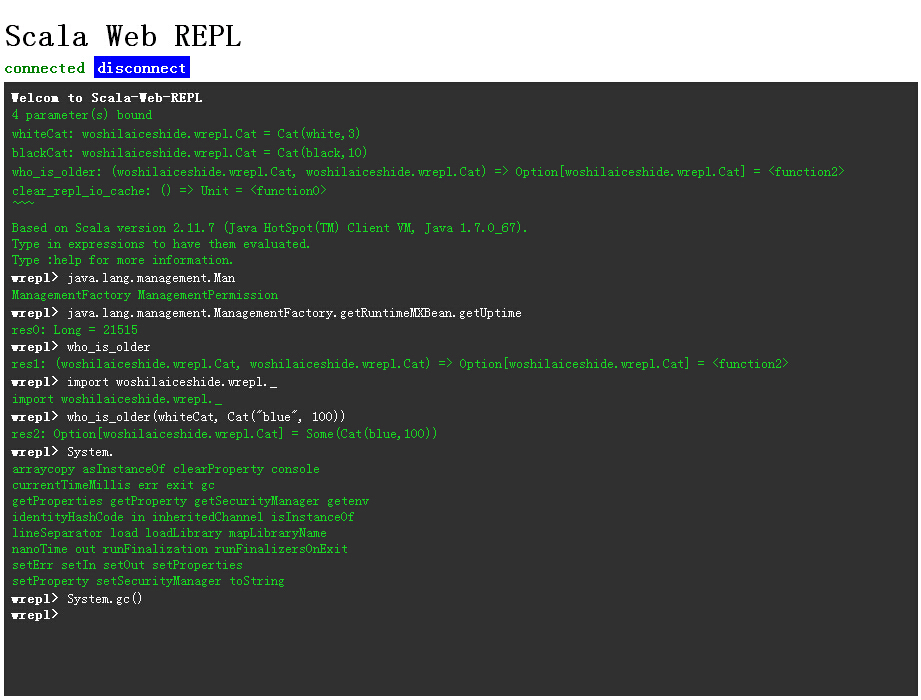
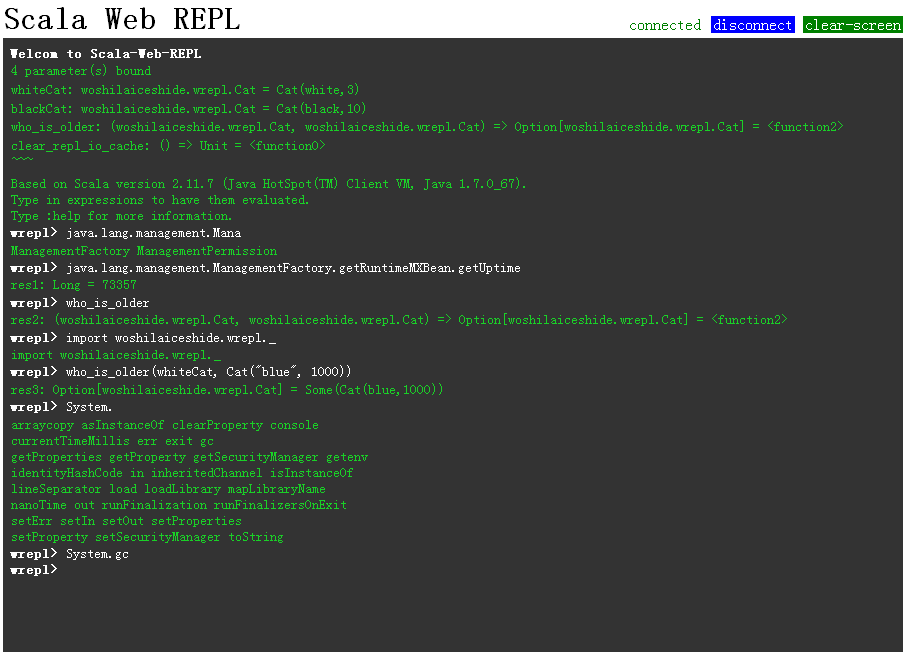
refine web-ui

diff --git a/src/main/resources/asset/wrepl.html b/src/main/resources/asset/wrepl.html
@@ -7,7 +7,7 @@
 <script type="text/javascript" src="/asset/jquery-2.1.4.min.js"></script>
 <script type="text/javascript" src="/asset/jquery.console.js"></script>
 <script type="text/javascript">
-	var work = function() {
+	var fill_with_terminal = function() {
 
 		function find_common_prefix(strings) {
 			if (0 == strings.length)
@@ -54,6 +54,7 @@
 		function connected() {
 			info("connected");
 			$("#disconnect").show();
+			controller.focus();
 		}
 		;
 		function disconnected(msg, reconnect_forcely) {
@@ -65,7 +66,6 @@
 			} else {
 				$("#connect").show()
 			}
-
 		}
 		;
 
@@ -92,7 +92,7 @@
 			return false;
 		});
 
-		function ws(path) {
+		function ws_address(path) {
 			var loc = window.location, new_uri;
 			if (loc.protocol === "https:") {
 				new_uri = "wss:";
@@ -124,7 +124,7 @@
 		}
 		;
 		function connect0(force) {
-			var tmp = new WebSocket(ws("/wrepl"));
+			var tmp = new WebSocket(ws_address("/wrepl"));
 			websocket = tmp;
 			tmp.onopen = function(event) {
 				send({
@@ -180,9 +180,8 @@
 					var new_prefix = j.prefix.substring(0, j.cur_cursor);
 					controller.showCompletion(new_prefix, j.completion);
 				} else if (1 < j.completion.length) {
-					var new_prefix = j.prefix.substring(0, j.cur_cursor);
-					//+j.completion[0].substring(0, j.cur_cursor - j.prev_cursor);
-					new_prefix = new_prefix + find_common_prefix(j.completion);
+					var new_prefix = j.prefix.substring(0, j.cur_cursor)
+							+ find_common_prefix(j.completion);
 					controller.showCompletion(new_prefix, j.completion);
 				}
 
@@ -203,7 +202,7 @@
 		}
 
 		var container = $('<div class="console">');
-		$('body').append(container);
+		$('#main').append(container);
 		var controller = container.console({
 			welcomeMessage : "Welcom to Scala-Web-REPL",
 			promptLabel : 'wrepl> ',
@@ -234,8 +233,15 @@
 				return issue_completion(prefix);
 			}
 		});
+
+		$("#clear_screen").click(function() {
+			$(".jquery-console-message").remove();
+			$(".jquery-console-prompt-box").remove();
+			controller.report(" ");
+			controller.focus();
+		});
 	};
-	$(document).ready(work);
+	$(document).ready(fill_with_terminal);
 </script>
 <style type="text/css" media="screen">
 div.console {
@@ -248,7 +254,6 @@ a, a:visited {
 }
 
 div.console div.jquery-console-inner {
-	width: 900px;
 	height: 600px;
 	background: #333;
 	padding: 0.5em;
@@ -301,17 +306,24 @@ div.console span.jquery-console-prompt-label {
 			<strong>javascript should be enabled for Scala-Web-REPL.</strong>
 		</p>
 	</noscript>
-	<h1 style="margin-bottom: 3px;">Scala Web REPL</h1>
-	<div style="margin-bottom: 3px; font-weight: bold; margin-bottom: 3px;">
-		<div id="info" style="display: inline; color: green;">initializing...</div>
-		<a href="#" id="disconnect"
-			style="display: none; color: white; background: blue; padding: 3px;">disconnect</a>
-		<a href="#" id="connect"
-			style="display: none; color: white; background: blue; padding: 3px;">reconnect</a>
-		<a href="#" id="connect_forcely"
-			style="display: none; color: white; background: red; padding: 3px;">connect
-			forcely</a>
+	<div id="main" style="width: 900px;">
+		<div style="width: 100%;">
+			<div
+				style="display: inline; height: 33px; font-weight: bold; font-size: 32px;">Scala
+				Web REPL</div>
+			<div style="display: inline; float: right; margin-top: 15px;">
+				<div id="info"
+					style="display: inline; color: green; padding-left: 2px; padding-right: 2px;">initializing...</div>
+				<a href="#" id="disconnect"
+					style="display: none; color: white; background: blue; padding-left: 2px; padding-right: 2px;">disconnect</a>
+				<a href="#" id="connect"
+					style="display: none; color: white; background: blue; padding-left: 2px; padding-right: 2px;">reconnect</a>
+				<a href="#" id="connect_forcely"
+					style="display: none; color: white; background: red; padding-left: 2px; padding-right: 2px;">connect-forcely</a>
+				<a href="#" id="clear_screen"
+					style="color: white; background: green; padding-left: 2px; padding-right: 2px;">clear-screen</a>
+			</div>
+		</div>
 	</div>
-	<div style="height: 3px;"></div>
 </body>
 </html>
